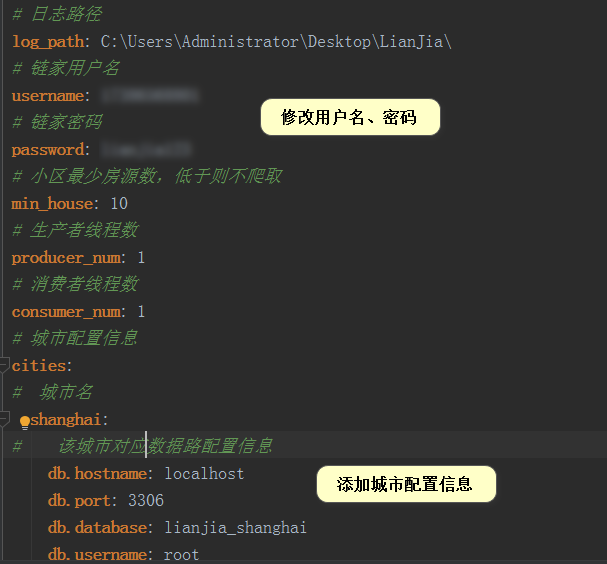
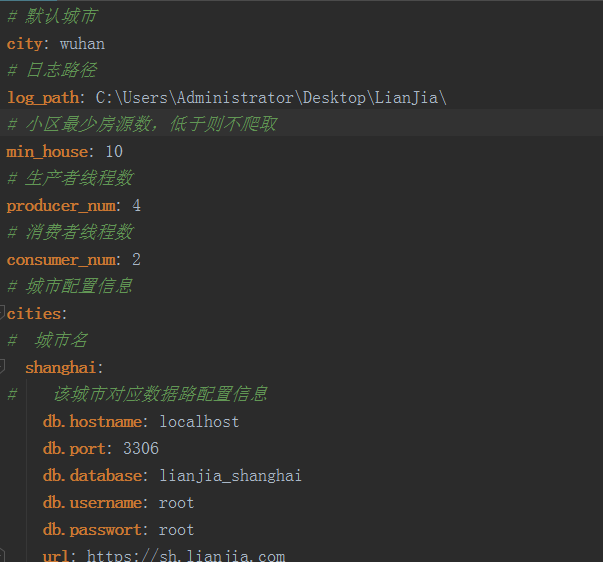
添加默认城市

Changed region(s): [[0.0, 0.0, 0.8358, 1.0], [0.0, 0.7865, 0.0299, 0.8167]]

diff --git a/XiaoQuHouses.py b/XiaoQuHouses.py
@@ -16,7 +16,7 @@ class XiaoQuHouses(threading.Thread):
         self.__xiao_qu_queue = xiao_qu_queue
         self.__xiao_qu_id_soup_queue = xiao_qu_id_soup_queue
         self.__lian_jia_session = lian_jia_session
-        self.__yaml_data = self.__lian_jia_session.get_prop()
+        self.min_house = self.__lian_jia_session.get_prop_value('min_house')
         self.__logger = self.__lian_jia_session.get_logger()
         self.__sql_session = self.__lian_jia_session.get_sql_session()
         self.__base_url = self.__lian_jia_session.get_city_url()
@@ -41,7 +41,7 @@ class XiaoQuHouses(threading.Thread):
                 # 更新小区在售房源数(其它数据没更新)
                 if xiao_qu.zai_shou != total:
                     self.__updata_zai_shou(total, xiao_qu.id)
-                if total < self.__yaml_data['min_house']:
+                if total < self.min_house:
                     self.__logger.info('小区房源[{0}({3})] , 数量({2})太少，跳过] ===> url[{1}] '.format(xiao_qu.name, xiao_qu.url, total, xiao_qu.id))
                 elif total > 800:
                     self.__logger.error('小区房源[id: {0}] , 数量({2})异常 ===> url[{1}] '.format(xiao_qu.name, xiao_qu.url, total))
@@ -77,7 +77,6 @@ class ParseXiaoQuPage(threading.Thread):
         threading.Thread.__init__(self)
         self.__xiao_qu_id_soup_queue = xiao_qu_id_soup_queue
         self.__lian_jia_session = lian_jia_session
-        self.__yaml_data = self.__lian_jia_session.get_prop()
         self.__logger = self.__lian_jia_session.get_logger()
         self.__sql_session = self.__lian_jia_session.get_sql_session()
         self.__base_url = self.__lian_jia_session.get_city_url()
@@ -217,11 +216,11 @@ class ParseXiaoQuPage(threading.Thread):
         self.__sql_session.add_all(price_change_not_list)
 
     def __deal_house(self, url):
-        url2 = '{0}/ershoufang/{1}.html'.format(self.__yaml_data['base_url'], url)
+        url2 = '{0}/ershoufang/{1}.html'.format(self.__base_url, url)
         rep = self.__lian_jia_session.get(url2)
         if rep.status_code == 404:
             self.__logger.info('house[{0}] 404'.format(url))
-            self.__deal_not(url)
+            # self.__deal_not(url)
         elif '/chengjiao/' in rep.url:
             self.__logger.info('house[{0}] 成交'.format(url))
             self.__deal_cheng_jiao(rep, url)
@@ -236,7 +235,7 @@ class ParseXiaoQuPage(threading.Thread):
                     span_text = span.get_text(strip=True)
                     if span_text == '已下架':
                         self.__logger.info('house[{0}] 已下架'.format(url))
-                        self.__deal_not(url)
+                        # self.__deal_not(url)
                     else:
                         self.__logger.info('house[{0}] ?????'.format(url))
                 else:
@@ -326,12 +325,12 @@ class ChengJiao2:
 
     def __init__(self, lian_jia_session):
         self.__lian_jia_session = lian_jia_session
-        self.__yaml_data = self.__lian_jia_session.get_prop()
+        self.base_url = self.__lian_jia_session.get_city_url()
         self.__logger = self.__lian_jia_session.get_logger()
         self.__sql_session = self.__lian_jia_session.get_sql_session()
 
     def parse(self):
-        url = '{0}/chengjiao/'.format(self.__yaml_data['base_url'])
+        url = '{0}/chengjiao/'.format(self.base_url)
         rep = self.__lian_jia_session.get(url)
         soup = BeautifulSoup(rep.text, 'lxml')
         total = soup.find('div', attrs={'class', 'total'}).find('span').get_text(strip=True)
@@ -344,7 +343,7 @@ class ChengJiao2:
         for url in page_url_list:
             i += 1
             self.__logger.info('progress {0}'.format(i/t))
-            rep = self.__lian_jia_session.get(self.__yaml_data['base_url'] + url)
+            rep = self.__lian_jia_session.get(self.base_url + url)
             soup = BeautifulSoup(rep.text, 'lxml')
             self.__parse_soup(soup)
 

diff --git a/session.py b/session.py
@@ -12,17 +12,19 @@ properties_filse = 'properties.yml'
 
 class LianJiaSession:
 
-    def __init__(self, city):
-        self.city = city
+    def __init__(self, city=None):
         with open(properties_filse, 'r', encoding="utf-8") as f:
             self.yaml_data = yaml.load(f.read(), Loader=yaml.FullLoader)
+        if city is None:
+            self.city = self.yaml_data['city']
+        else:
+            self.city = city
         self.__logger_name = 'lianjia'
         self.__init_logger()
         self.__headers = self.get_headers()
         self.__logger = logging.getLogger(self.__logger_name)
-        self.__username = str(self.yaml_data['username'])
         self.__web_session = self.__login()
-        self.__logger.info('login...username[{0}]'.format(self.__username))
+        self.__logger.info('爬城市[{0}]'.format(self.city))
 
     def get(self, url):
         try:
@@ -33,7 +35,7 @@ class LianJiaSession:
 
     def __login(self):
         web_session = requests.Session()
-        ori_data = 'username=' + self.__username + '&password=' + str(self.yaml_data['password']) + '&code=&' \
+        ori_data = 'username=aa&password=bb&code=&' \
                    'service=https%3A%2F%2Fajax.api.lianjia.com%2Flogin%2Flogin%2Fgetuserinfo&' \
                    'isajax=true&_eventId=submit&remember=1&' \
                    'lt=LT-159472-MJo29Q6dVcEP1Nk3R00jzzGghfKdTd-upassport.lianjia.com&execution=e2s1'
@@ -46,7 +48,6 @@ class LianJiaSession:
         return web_session
 
     def __get_city_conf(self):
-        # city = self.yaml_data['city']
         if 'cities' in self.yaml_data and self.city in self.yaml_data['cities']:
             city_conf = self.yaml_data['cities'][self.city]
         else:
@@ -79,6 +80,9 @@ class LianJiaSession:
 
     def get_prop(self):
         return self.yaml_data
+
+    def get_prop_value(self, key):
+        return self.yaml_data[key]
 
     def get_logger(self):
         return logging.getLogger(self.__logger_name)

diff --git a/Report.py b/Report.py
@@ -8,7 +8,7 @@ import sys
 
 class Report:
 
-    def __init__(self, report_date, city):
+    def __init__(self, report_date, city=None):
         lj_session = LianJiaSession(city)
         engine = lj_session.get_sql_engine()
         self.__yaml_data = lj_session.get_prop()
@@ -230,7 +230,14 @@ if '__main__' == __name__:
     filename, city, report_date = sys.argv
     plt.rcParams['font.sans-serif'] = ['KaiTi']  # 指定默认字体
     plt.rcParams['axes.unicode_minus'] = False  # 解决保存图像是负号'-'显示为方块的问题
-
     # 今日    昨日  本周 上周(周一)
-    report = Report(report_date, city)
+    if len(sys.argv) == 3:
+        filename, report_date, city = sys.argv
+        report = Report(report_date, city)
+    elif len(sys.argv) == 2:
+        filename, report_date = sys.argv
+        report = Report(report_date)
+    else:
+        report_date = '今日'
+        report = Report(report_date)
     report.report()

diff --git a/AllDistrict.py b/AllDistrict.py
@@ -11,7 +11,7 @@ re_null = re.compile(r'\n|&nbsp|\xa0|\\xa0|\u3000|\\u3000|\\u0020|\u0020|\t|\r')
 # 获取 区 信息
 class AllDistrict:
 
-    def __init__(self, city):
+    def __init__(self, city=None):
         self.__lian_jia_session = LianJiaSession(city)
         self.__yaml_data = self.__lian_jia_session.get_prop()
         self.__house_list = []
@@ -58,5 +58,8 @@ class AllDistrict:
 
 
 if __name__ == '__main__':
-    filename, city = sys.argv
-    AllDistrict(city).parse()
+    if len(sys.argv) == 2:
+        filename, city = sys.argv
+        AllDistrict(city).parse()
+    else:
+        AllDistrict().parse()

diff --git a/LianJia.py b/LianJia.py
@@ -8,7 +8,7 @@ from session import LianJiaSession
 
 class LianJia:
 
-    def __init__(self, city):
+    def __init__(self, city=None):
         self.lian_jia_session = LianJiaSession(city)
         self.__yaml_data = self.lian_jia_session.get_prop()
         self.__house_list = []
@@ -69,8 +69,9 @@ class LianJia:
 
 
 if '__main__' == __name__:
-    filename, city = sys.argv
-    # print(city)
-    # city = 'shenzhen'
-    lianJia = LianJia(city)
+    if len(sys.argv) == 2:
+        filename, city = sys.argv
+        lianJia = LianJia(city)
+    else:
+        lianJia = LianJia()
     lianJia.parse()

diff --git a/createTable.py b/createTable.py
@@ -114,8 +114,12 @@ def create_view(engine):
 
 
 if __name__ == '__main__':
-    filename, city = sys.argv
-    lian_jia_session = LianJiaSession(city)
+    if len(sys.argv) == 2:
+        filename, city = sys.argv
+        lian_jia_session = LianJiaSession(city)
+    else:
+        lian_jia_session = LianJiaSession()
+
     engine = lian_jia_session.get_sql_engine()
 
     base.metadata.create_all(engine)  # 创建表结构

diff --git a/AllXiaoQu.py b/AllXiaoQu.py
@@ -85,5 +85,8 @@ class AllXiaoQu:
 
 
 if __name__ == '__main__':
-    filename, city = sys.argv
-    AllXiaoQu(city).get_xiao_qu_list()
+    if len(sys.argv) == 2:
+        filename, city = sys.argv
+        AllXiaoQu(city).get_xiao_qu_list()
+    else:
+        AllXiaoQu().get_xiao_qu_list()

diff --git a/README.md b/README.md
@@ -15,28 +15,28 @@
     
 3. 新建数据库表、视图  
     执行如下命令，新建数据库表  
-    python createTable.py shenzhen（城市名，在配置文件中配置）  
+    python createTable.py shenzhen（城市名，如不填则从配置文件取默认城市，下同）  
 
 4. 获取区域信息
-    python AllDistrict.py shenzhen（城市名，在配置文件中配置）  
+    python AllDistrict.py shenzhen（城市名）  
     ![Image text](https://raw.githubusercontent.com/vxot/LianJia/master/image/AllDistrict.jpg)  
 
 5. 获取所有小区
-    python AllXiaoQu.py shenzhen（城市名，在配置文件中配置）  
+    python AllXiaoQu.py shenzhen（城市名）  
     ![Image text](https://raw.githubusercontent.com/vxot/LianJia/master/image/AllDistrict.jpg)  
    
 6. 开始爬所有在售二手房
-    python LianJia.py shenzhen（城市名，在配置文件中配置）  
+    python LianJia.py shenzhen（城市名）  
     ![Image text](https://raw.githubusercontent.com/vxot/LianJia/master/image/AllHouse.jpg)  
 
 **三. 执行方法**  
 每天执行如下步骤：  
 1. 爬数据  
-    python LianJia.py shenzhen（城市名，在配置文件中配置）  
+    python LianJia.py shenzhen（城市名）  
     ![Image text](https://raw.githubusercontent.com/vxot/LianJia/master/image/parseLog.jpg)  
  
 2. 生成报表  
-    python Report.py shenzhen（城市名，在配置文件中配置） 昨日（日期，可选今日，昨日，本周，上周(周一)）  
+    python Report.py shenzhen（城市名） 昨日（日期，可选今日，昨日，本周，上周(周一)）  
     ![Image text](https://raw.githubusercontent.com/vxot/LianJia/master/image/newHouse.png)  
     ![Image text](https://raw.githubusercontent.com/vxot/LianJia/master/image/priceChange5percent.png)  
 
